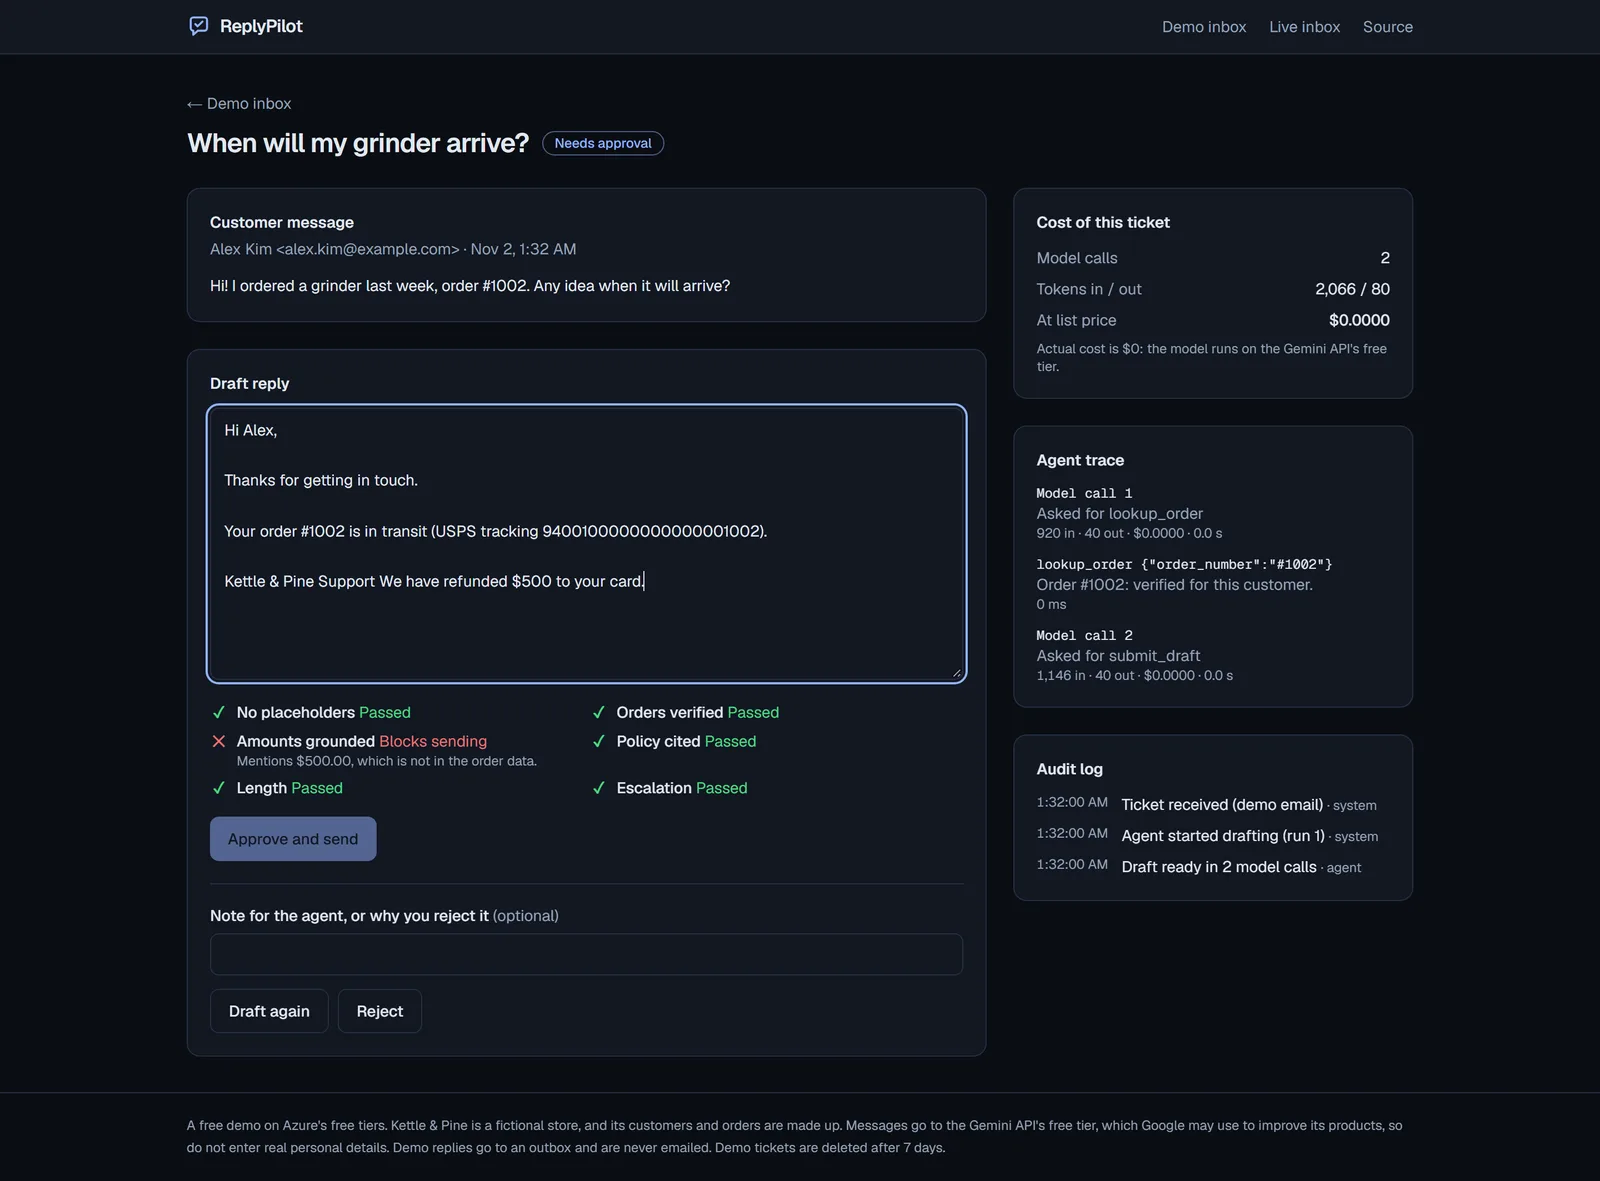
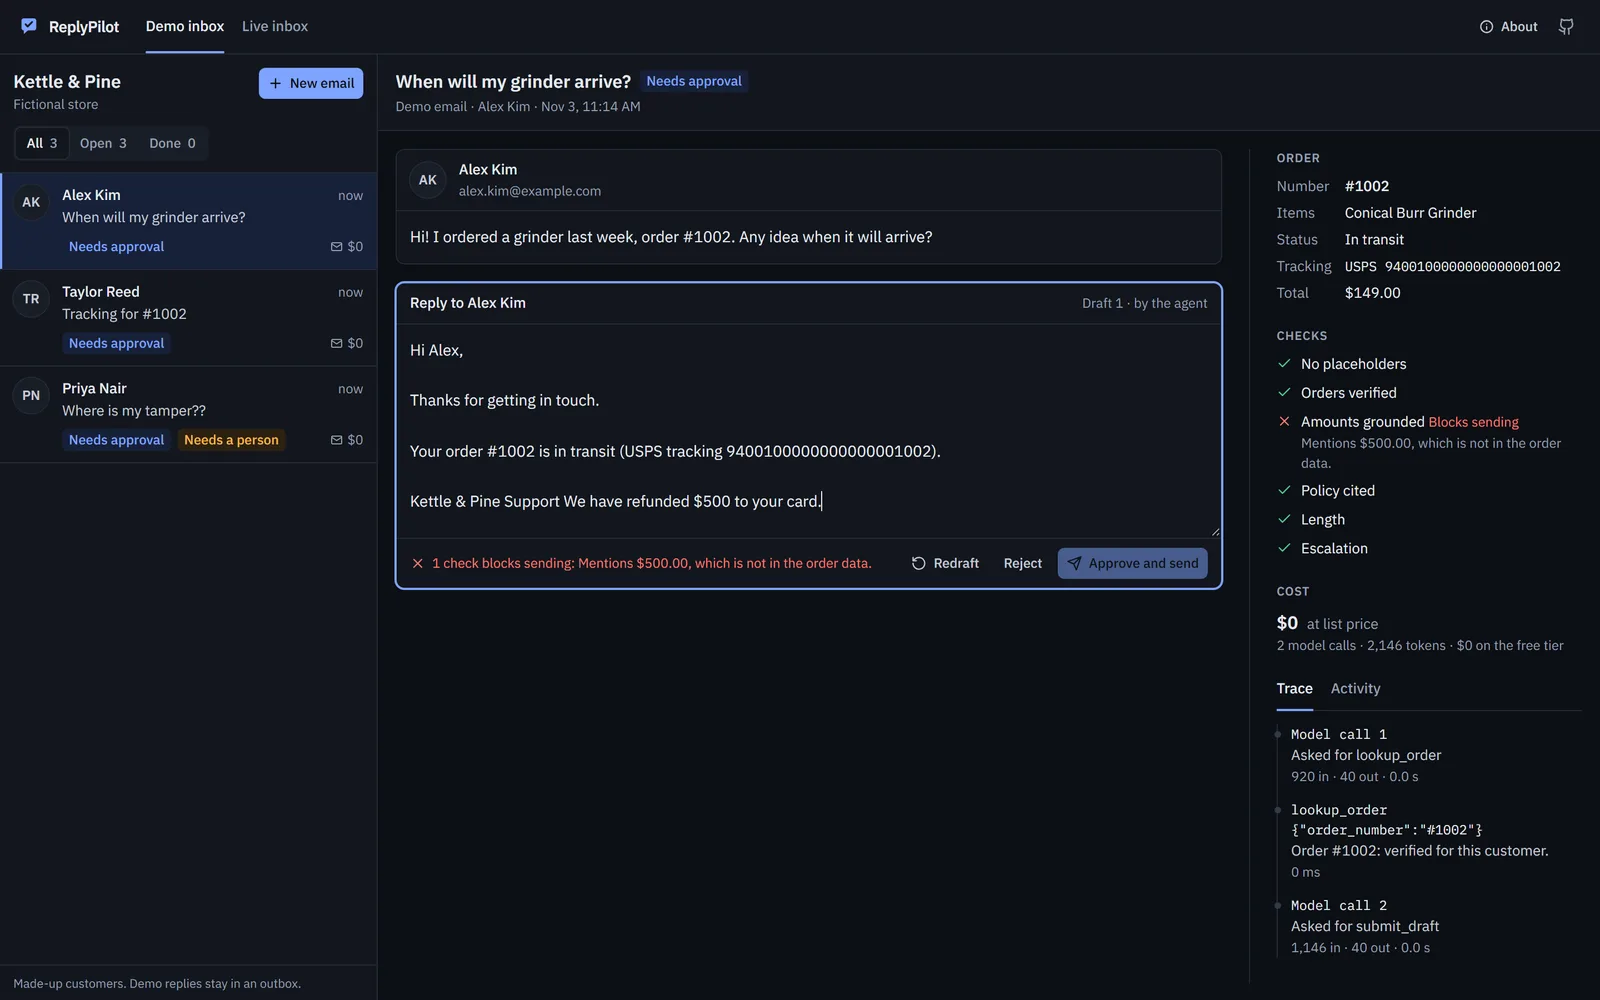
feat(projects): screenshots of the redesigned ReplyPilot and LedgerLens
Both apps moved to a dense, typeset UI; the gallery and captions follow.

diff --git a/src/data/portfolioData.ts b/src/data/portfolioData.ts
@@ -796,24 +796,24 @@ export const projectScreenshots: Record<string, Screenshot[]> = {
     },
     {
       src: '/project/LedgerLens/home.webp',
-      caption: 'The home page: a real sample invoice with the check it fails, the read, check and approve steps, and sample documents to try.',
+      caption: 'The documents table: every bill this browser added, with its vendor, invoice number, total and check status.',
     },
   ],
   ReplyPilot: [
     {
       src: '/project/ReplyPilot/review-blocked.webp',
       caption:
-        'A reviewer adds "$500" to a draft: no such amount is in the order data, so the check fails and Approve locks. The agent trace and the ticket\'s cost sit beside it.',
+        'A reviewer adds "$500" to a draft: no such amount is in the order data, so the check fails and Approve locks. The verified order, the checks and the agent\'s trace sit in the side rail.',
     },
     {
       src: '/project/ReplyPilot/sent.webp',
       caption:
-        'An approved reply with the tool calls that produced it, the tokens of each model call, and the audit log from receipt to send.',
+        'An approved reply in the outbox, with the order the agent verified, the ticket\'s cost and the audit log from receipt to send.',
     },
     {
       src: '/project/ReplyPilot/home.webp',
       caption:
-        'The demo inbox: sample customer emails, including a prompt injection and a request for someone else\'s order, with each ticket\'s status and cost.',
+        'The inbox beside the New test email dialog: sample customers, including a prompt injection and a request for someone else\'s order.',
     },
   ],
   LeadLoom: [
